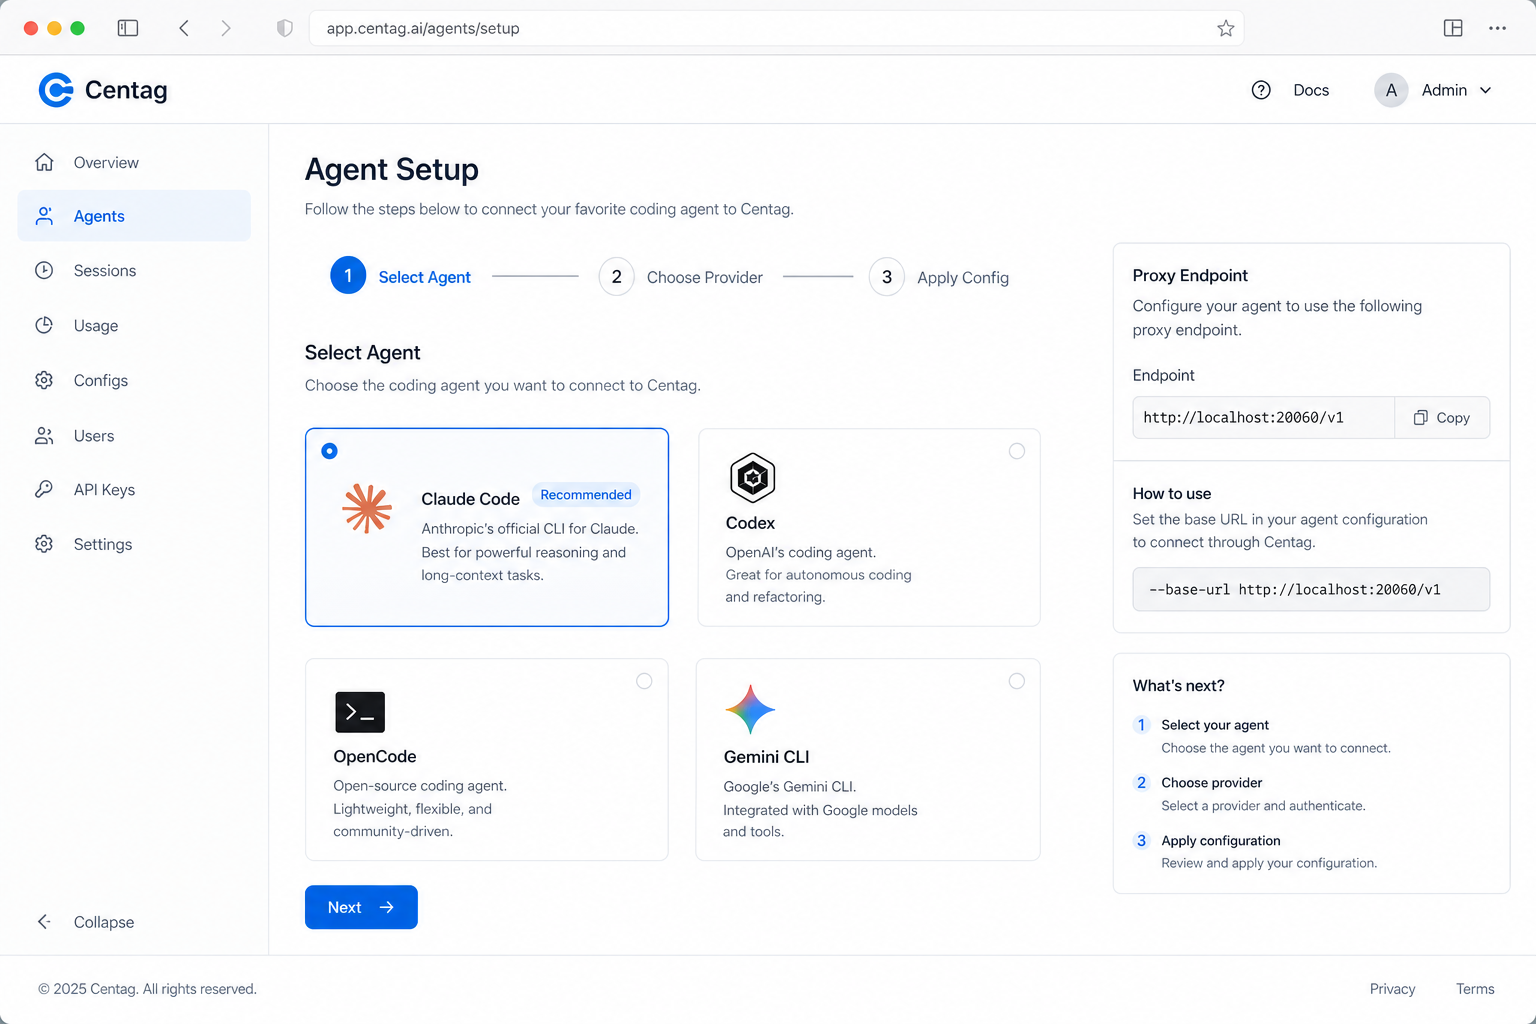
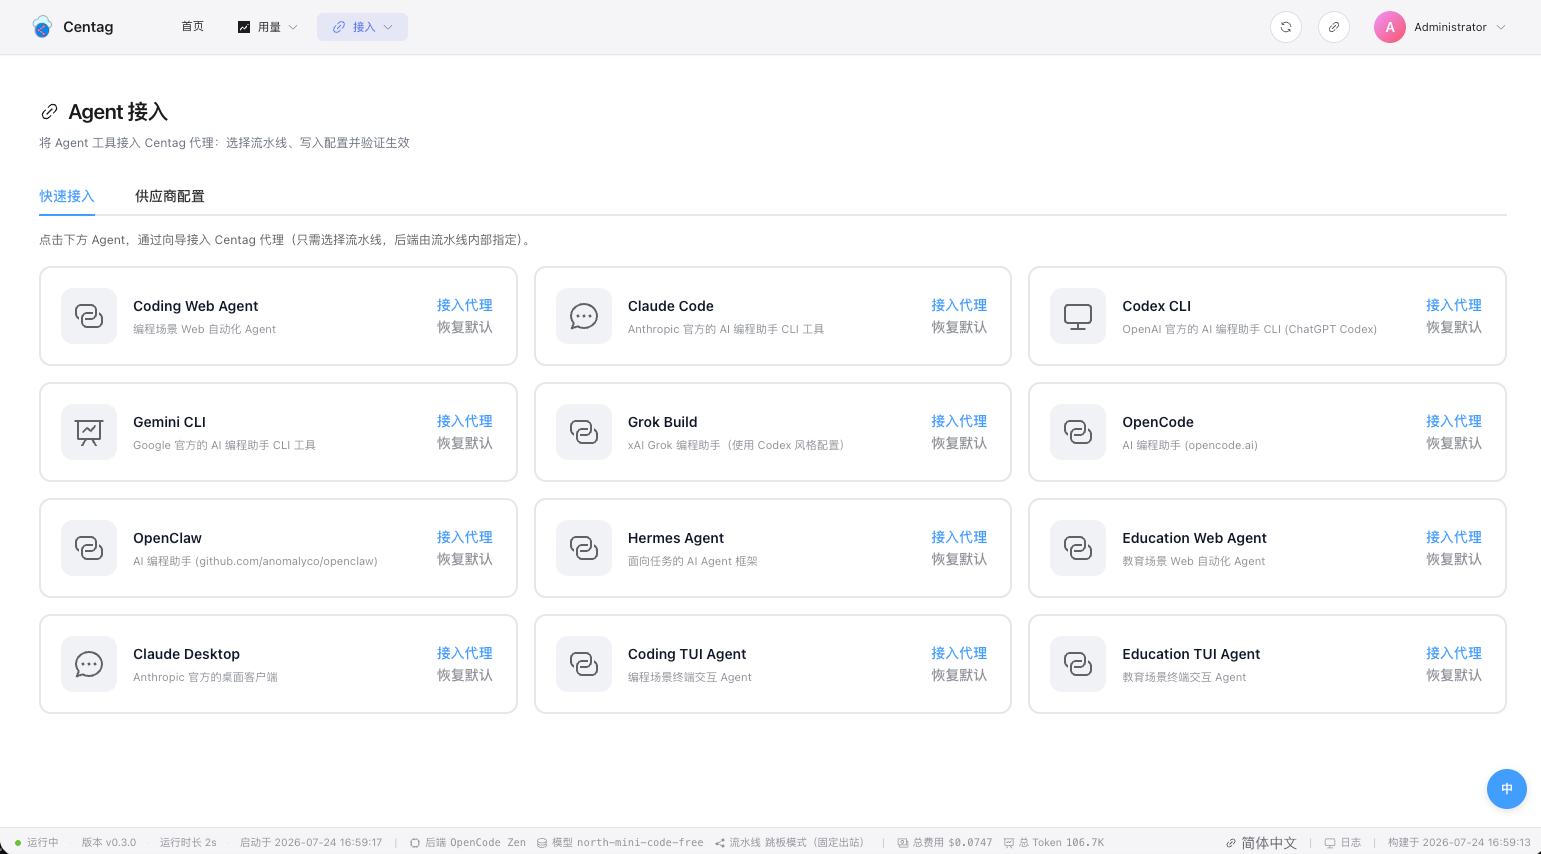
feat(web): 更新代理设置界面与多语言支持
在代理设置界面中添加了 MITM 运行状态提示，允许用户在运行时显式停止服务。同时，更新了多语言 JSON 文件，修正了占位符格式以支持国际化。

diff --git a/web/src/views/SystemProxy.vue b/web/src/views/SystemProxy.vue
@@ -58,12 +58,21 @@
           <el-step :title="t('systemProxy.wizard.step3Title')" :description="t('systemProxy.wizard.step3Desc')" />
         </el-steps>
 
-        <!-- 步骤 1：启动 MITM（出口 Key 随服务自动绑定） -->
-        <el-card class="step-card" shadow="never">
+        <!-- 步骤 1：启动/关闭 MITM（出口 Key 随服务自动绑定；运行中仍显示本卡片以便关闭） -->
+        <el-alert
+          v-if="status.enabled"
+          class="mb-sm"
+          type="success"
+          :closable="false"
+          show-icon
+          :title="t('systemProxy.wizard.runningAlertTitle')"
+          :description="t('systemProxy.wizard.runningAlertDesc')"
+        />
+        <el-card class="step-card" :class="{ 'step-card-active': status.enabled }" shadow="never">
           <div class="step-head">
             <span class="step-num">1</span>
             <div class="step-title-block">
-              <h3>{{ t('systemProxy.wizard.step1Heading') }}</h3>
+              <h3>{{ status.enabled ? t('systemProxy.wizard.step1HeadingRunning') : t('systemProxy.wizard.step1Heading') }}</h3>
               <p v-html="t('systemProxy.wizard.step1Description', { port: apiPort })" />
             </div>
             <el-space wrap size="small">
@@ -73,6 +82,16 @@
               <el-tag :type="egressConfigured ? 'success' : 'warning'" size="small">
                 {{ t('systemProxy.status.egressKey') }} {{ egressConfigured ? t('systemProxy.status.autoReady') : t('systemProxy.status.pendingBind') }}
               </el-tag>
+              <el-button
+                v-if="status.enabled"
+                type="danger"
+                plain
+                size="small"
+                :loading="toggling"
+                @click="stopMitm"
+              >
+                {{ t('systemProxy.wizard.stopMitm') }}
+              </el-button>
             </el-space>
           </div>
 
@@ -83,8 +102,8 @@
                 v-model="status.enabled"
                 :loading="toggling"
                 @change="toggleProxy"
-                :active-text="t('systemProxy.yes')"
-                :inactive-text="t('systemProxy.no')"
+                :active-text="t('systemProxy.status.running')"
+                :inactive-text="t('systemProxy.status.stopped')"
               />
               <span class="form-hint">{{ listenDisplay }}</span>
             </div>
@@ -910,6 +929,13 @@ const toggleProxy = async () => {
   }
 }
 
+/** 运行中时提供显式「停止」入口（避免用户以为步骤 1 消失了）。 */
+const stopMitm = async () => {
+  if (!status.value.enabled || toggling.value) return
+  status.value.enabled = false
+  await toggleProxy()
+}
+
 const openAddDomain = () => {
   newDomain.value = { domain: '' }
   showAddDialog.value = true
@@ -1248,8 +1274,12 @@ onMounted(() => {
   padding-top: 8px;
 }
 
-.step-card {
-  margin-bottom: 8px;
+.step-card-active {
+  border-color: var(--el-color-success-light-5);
+  box-shadow: 0 0 0 1px var(--el-color-success-light-7);
+}
+
+.step-card {  margin-bottom: 8px;
   border-radius: 8px;
 }
 

diff --git a/web/src/components/backends/BackendEditorDialog.vue b/web/src/components/backends/BackendEditorDialog.vue
@@ -431,8 +431,17 @@ const canFetchModels = computed(() => {
   return !isCreate.value && apiKeys.value.some((k) => k.has_key)
 })
 
+/** API Key 输入绑在 apiKeys[]，校验前需同步到 form.api_key，否则按钮会一直灰着。 */
+function formForValidation() {
+  return {
+    ...form,
+    api_key: getPrimaryApiKey(),
+    has_api_key: !!form.has_api_key || apiKeys.value.some((k) => k.has_key),
+  }
+}
+
 const canSave = computed(() =>
-  validateProviderForm(form, {
+  validateProviderForm(formForValidation(), {
     isCreate: isCreate.value,
     requireApiKey: true,
   }).ok
@@ -617,7 +626,8 @@ watch(
 )
 
 const save = async () => {
-  const check = validateProviderForm(form, {
+  form.api_key = getPrimaryApiKey()
+  const check = validateProviderForm(formForValidation(), {
     isCreate: isCreate.value,
     requireApiKey: true,
   })
@@ -626,7 +636,6 @@ const save = async () => {
     return
   }
 
-  form.api_key = getPrimaryApiKey()
   if (form.default_model) form.probe_model = form.default_model
 
   saving.value = true
